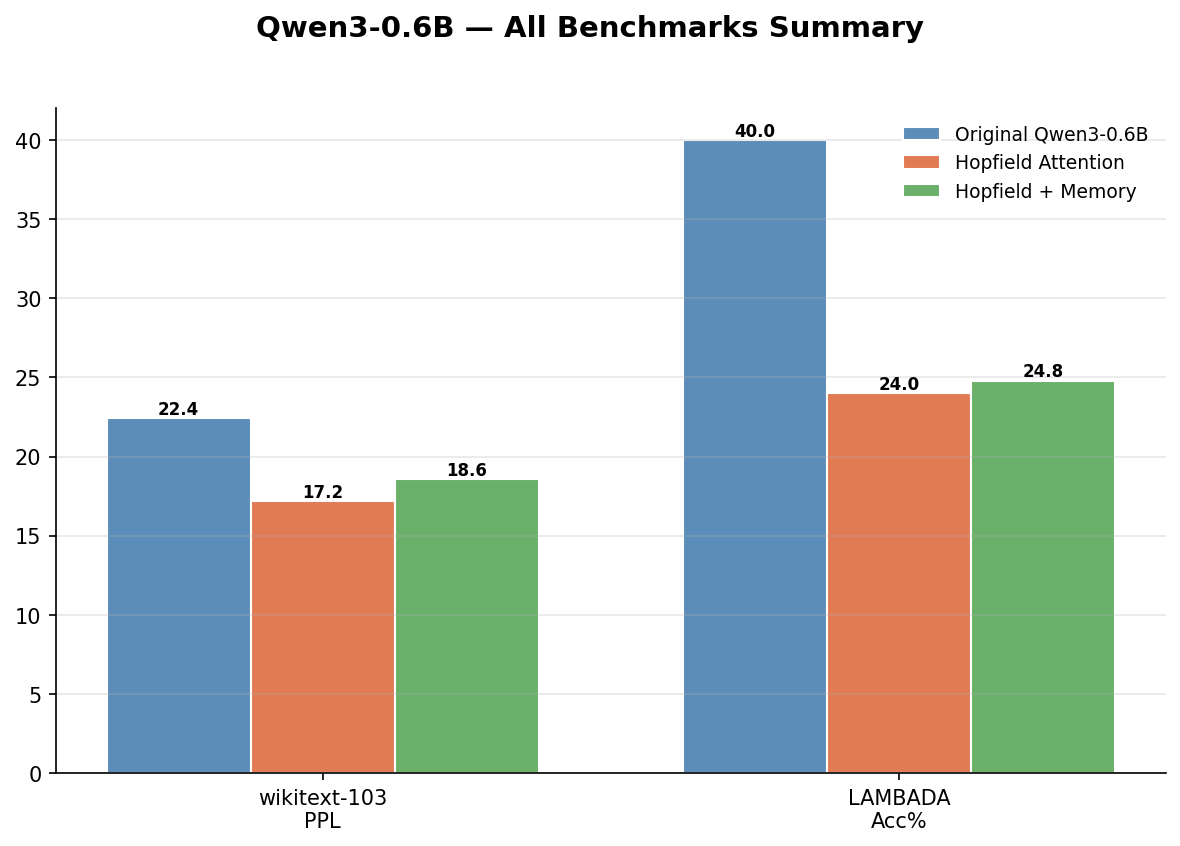
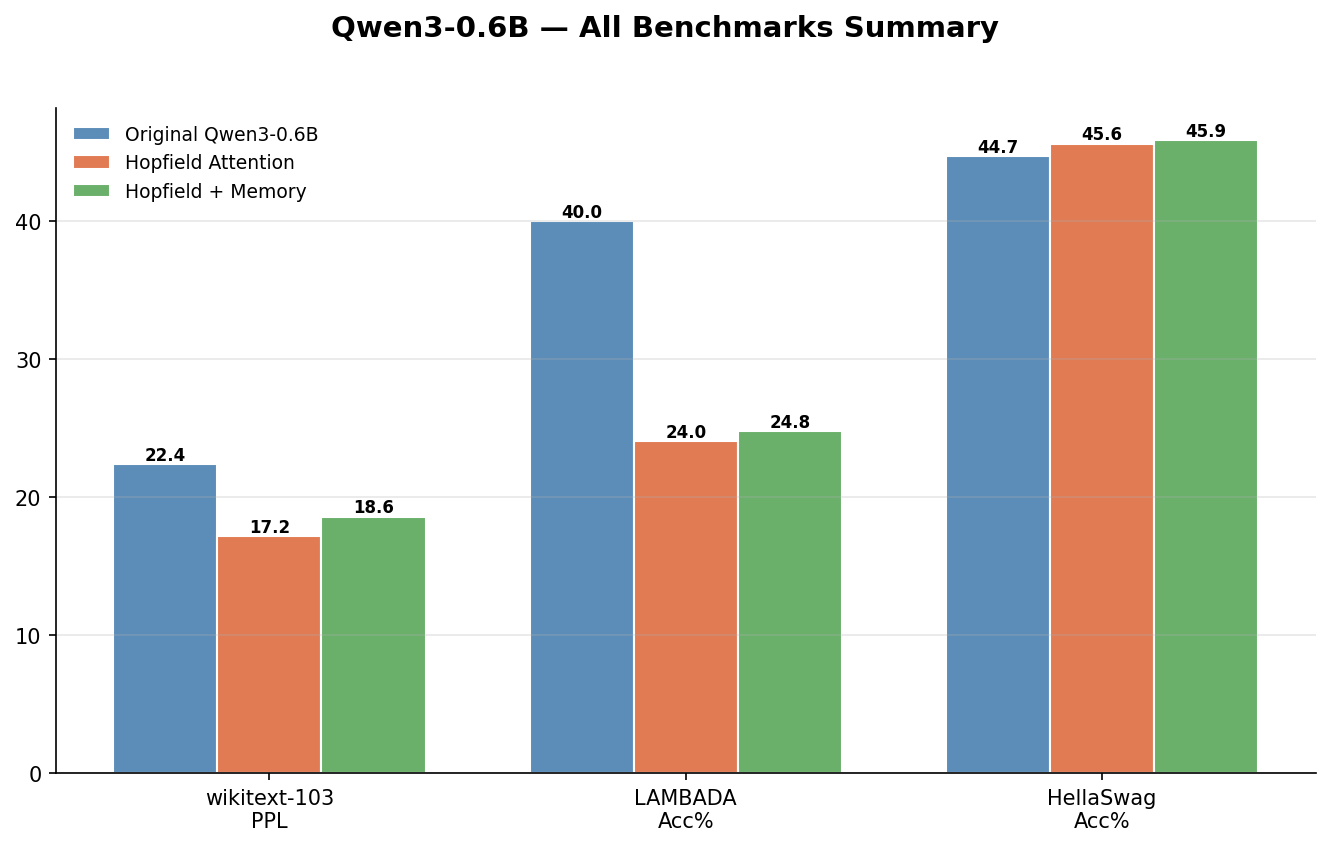
add HellaSwag benchmark results: Hopfield +0.9%, Augmented +1.2% over baseline

diff --git a/README.md b/README.md
@@ -194,30 +194,32 @@ which is exactly the attention operation when $T=1$. We extend this to $T>1$ ste
 
 ---
 
-## Experiment 8: Public Benchmarks — WikiText-103 & LAMBADA
+## Experiment 8: Public Benchmarks — WikiText-103, LAMBADA & HellaSwag
 
 > Evaluate all three variants on standard public NLP benchmarks.
-> WikiText-103 tests general language modeling perplexity; LAMBADA tests long-range dependency via last-word prediction accuracy.
+> WikiText-103 tests general language modeling perplexity; LAMBADA tests long-range dependency via last-word prediction accuracy; HellaSwag tests commonsense reasoning via 4-choice sentence completion.
 
 ### Setup
 - **Model**: Qwen3-0.6B with last 4 layers patched (layers 24-27)
 - **Fine-tuning**: 5 epochs, train only Hopfield + patched attention params
 - **WikiText-103**: 297K tokens, sliding window perplexity (window=512, stride=256)
 - **LAMBADA**: 5,153 examples, last-word prediction accuracy + perplexity
+- **HellaSwag**: 10,042 examples, 4-choice commonsense sentence completion, length-normalized log-likelihood scoring
 
 ### Results
 
-| Mode | WikiText-103 PPL | LAMBADA Acc | LAMBADA PPL | Speed |
-|------|-----------------|-------------|-------------|-------|
-| Original (baseline) | 22.41 | **40.00%** | **12.76** | 8,330 t/s |
-| **Hopfield Attention (T=3)** | **17.18** | 24.02% | 60.45 | 8,435 t/s |
-| Hopfield + Memory (64 mem) | 18.58 | 24.80% | 71.30 | 8,297 t/s |
+| Mode | WikiText-103 PPL | LAMBADA Acc | LAMBADA PPL | HellaSwag Acc | Speed |
+|------|-----------------|-------------|-------------|---------------|-------|
+| Original (baseline) | 22.41 | **40.00%** | **12.76** | 44.71% | 8,330 t/s |
+| **Hopfield Attention (T=3)** | **17.18** | 24.02% | 60.45 | 45.60% | 8,435 t/s |
+| **Hopfield + Memory (64 mem)** | 18.58 | 24.80% | 71.30 | **45.87%** | 8,297 t/s |
 
 ### Key Observations
 
 - **Hopfield Attention achieves 23% lower WikiText-103 perplexity** (17.18 vs 22.41) — the iterative attention refinement improves general language modeling
 - **Trade-off on LAMBADA**: original model retains better last-word prediction accuracy (40% vs 24%), suggesting Hopfield iterations may over-smooth token-level predictions
-- **Augmented mode** shows similar WikiText-103 gains (18.58 PPL) but doesn't help LAMBADA accuracy
+- **HellaSwag confirms Hopfield gains**: both Hopfield variants outperform the baseline (45.60% and 45.87% vs 44.71%), showing that multi-step attention refinement helps commonsense reasoning where choosing among candidates benefits from smoother, more holistic attention patterns
+- **Augmented mode leads on HellaSwag** (45.87%) — the associative memory bank provides additional context for commonsense reasoning tasks
 - **No speed penalty**: all three variants run at ~8,300 t/s, confirming Hopfield iterations add negligible overhead on last-4-layer patching
 
 ![Benchmark Comparison](results/benchmark_comparison.png)
@@ -234,7 +236,7 @@ which is exactly the attention operation when $T=1$. We extend this to $T>1$ ste
 5. **WikiText-2 confirms real-text gains**: augmented model achieves 0.036 BPC vs 1.48 BPC for vanilla — a 40x improvement
 6. **Memory bank adds ~25% parameters** but delivers disproportionate gains, especially on tasks with learnable patterns
 7. **Pretrained model patching works**: Hopfield attention on last 4 layers of Qwen3-0.6B reduces perplexity from 359 to 130 with only 4.22% parameter fine-tuning; full-layer augmented mode achieves PPL 114 (3.1x improvement)
-8. **Public benchmarks confirm WikiText gains**: Hopfield Attention achieves 23% lower WikiText-103 perplexity (17.18 vs 22.41), though at the cost of LAMBADA last-word prediction accuracy (24% vs 40%)
+8. **Public benchmarks show nuanced trade-offs**: Hopfield Attention achieves 23% lower WikiText-103 perplexity (17.18 vs 22.41) and +0.9% HellaSwag accuracy (45.60% vs 44.71%), but at the cost of LAMBADA last-word prediction (24% vs 40%) — Hopfield smoothing helps holistic reasoning but hurts precise token prediction
 
 ## Project Structure
 
@@ -250,7 +252,7 @@ which is exactly the attention operation when $T=1$. We extend this to $T>1$ ste
 │   ├── run_scaling.py          # Scaling: d_model=64,128,256,512
 │   ├── run_wikitext.py         # WikiText-2 real text experiment
 │   ├── run_pretrained.py       # Pretrained model benchmark (Qwen3-0.6B)
-│   └── run_benchmarks.py       # Public benchmarks (WikiText-103, LAMBADA)
+│   └── run_benchmarks.py       # Public benchmarks (WikiText-103, LAMBADA, HellaSwag)
 ├── scripts/
 │   └── plot_results.py         # Visualization (curves, bars, ablation, scaling)
 ├── smoke_test.py               # Quick sanity check

diff --git a/README_CN.md b/README_CN.md
@@ -194,30 +194,32 @@ $$\xi^{new} = X \cdot \text{softmax}(\beta X^\top \xi)$$
 
 ---
 
-## 实验 8：公开基准测试 — WikiText-103 & LAMBADA
+## 实验 8：公开基准测试 — WikiText-103、LAMBADA & HellaSwag
 
 > 在标准公开 NLP 基准上评估三种变体。
-> WikiText-103 测试通用语言建模困惑度；LAMBADA 通过末词预测测试长程依赖能力。
+> WikiText-103 测试通用语言建模困惑度；LAMBADA 通过末词预测测试长程依赖能力；HellaSwag 通过 4 选 1 句子补全测试常识推理能力。
 
 ### 实验设置
 - **模型**：Qwen3-0.6B，替换最后 4 层（第 24-27 层）
 - **微调**：5 个 epoch，仅训练 Hopfield + 被替换层注意力参数
 - **WikiText-103**：297K token，滑动窗口困惑度（窗口=512，步长=256）
 - **LAMBADA**：5,153 个样本，末词预测准确率 + 困惑度
+- **HellaSwag**：10,042 个样本，4 选 1 常识句子补全，长度归一化对数似然评分
 
 ### 结果
 
-| 模式 | WikiText-103 PPL | LAMBADA 准确率 | LAMBADA PPL | 速度 |
-|------|-----------------|---------------|-------------|------|
-| 原始（基线） | 22.41 | **40.00%** | **12.76** | 8,330 t/s |
-| **Hopfield 注意力 (T=3)** | **17.18** | 24.02% | 60.45 | 8,435 t/s |
-| Hopfield + 记忆库 (64 mem) | 18.58 | 24.80% | 71.30 | 8,297 t/s |
+| 模式 | WikiText-103 PPL | LAMBADA 准确率 | LAMBADA PPL | HellaSwag 准确率 | 速度 |
+|------|-----------------|---------------|-------------|-----------------|------|
+| 原始（基线） | 22.41 | **40.00%** | **12.76** | 44.71% | 8,330 t/s |
+| **Hopfield 注意力 (T=3)** | **17.18** | 24.02% | 60.45 | 45.60% | 8,435 t/s |
+| **Hopfield + 记忆库 (64 mem)** | 18.58 | 24.80% | 71.30 | **45.87%** | 8,297 t/s |
 
 ### 关键观察
 
 - **Hopfield 注意力 WikiText-103 困惑度降低 23%**（17.18 vs 22.41）— 迭代注意力优化改善了通用语言建模
 - **LAMBADA 上存在权衡**：原始模型保持更好的末词预测准确率（40% vs 24%），表明 Hopfield 迭代可能过度平滑了 token 级预测
-- **增强模式** WikiText-103 增益类似（PPL 18.58），但未改善 LAMBADA 准确率
+- **HellaSwag 验证 Hopfield 增益**：两种 Hopfield 变体均优于基线（45.60% 和 45.87% vs 44.71%），表明多步注意力优化有助于常识推理，在候选项选择中受益于更平滑、更全局的注意力模式
+- **增强模式在 HellaSwag 上领先**（45.87%）— 联想记忆库为常识推理任务提供了额外上下文
 - **无速度损失**：三种变体均以 ~8,300 t/s 运行，确认最后 4 层替换的 Hopfield 迭代开销可忽略
 
 ![基准对比](results/benchmark_comparison.png)
@@ -234,7 +236,7 @@ $$\xi^{new} = X \cdot \text{softmax}(\beta X^\top \xi)$$
 5. **WikiText-2 验证真实文本增益**：增强模型 BPC 0.036 vs 标准 1.48 — 40 倍改进
 6. **记忆库增加约 25% 参数**但带来不成比例的增益，尤其在具有可学习模式的任务上
 7. **预训练模型替换有效**：Qwen3-0.6B 最后 4 层 Hopfield 注意力将困惑度从 359 降至 130，仅微调 4.22% 参数；全层增强模式达到 PPL 114（3.1 倍提升）
-8. **公开基准验证 WikiText 增益**：Hopfield 注意力 WikiText-103 困惑度降低 23%（17.18 vs 22.41），但 LAMBADA 末词预测准确率有所下降（24% vs 40%）
+8. **公开基准展现细致权衡**：Hopfield 注意力 WikiText-103 困惑度降低 23%（17.18 vs 22.41），HellaSwag 准确率提升 +0.9%（45.60% vs 44.71%），但 LAMBADA 末词预测有所下降（24% vs 40%）— Hopfield 平滑有助于整体推理但影响精确 token 预测
 
 ## 项目结构
 
@@ -250,7 +252,7 @@ $$\xi^{new} = X \cdot \text{softmax}(\beta X^\top \xi)$$
 │   ├── run_scaling.py          # 缩放：d_model=64,128,256,512
 │   ├── run_wikitext.py         # WikiText-2 真实文本实验
 │   ├── run_pretrained.py       # 预训练模型基准测试（Qwen3-0.6B）
-│   └── run_benchmarks.py       # 公开基准测试（WikiText-103, LAMBADA）
+│   └── run_benchmarks.py       # 公开基准测试（WikiText-103, LAMBADA, HellaSwag）
 ├── scripts/
 │   └── plot_results.py         # 可视化（曲线、柱状图、消融、缩放）
 ├── smoke_test.py               # 快速健全性检查
